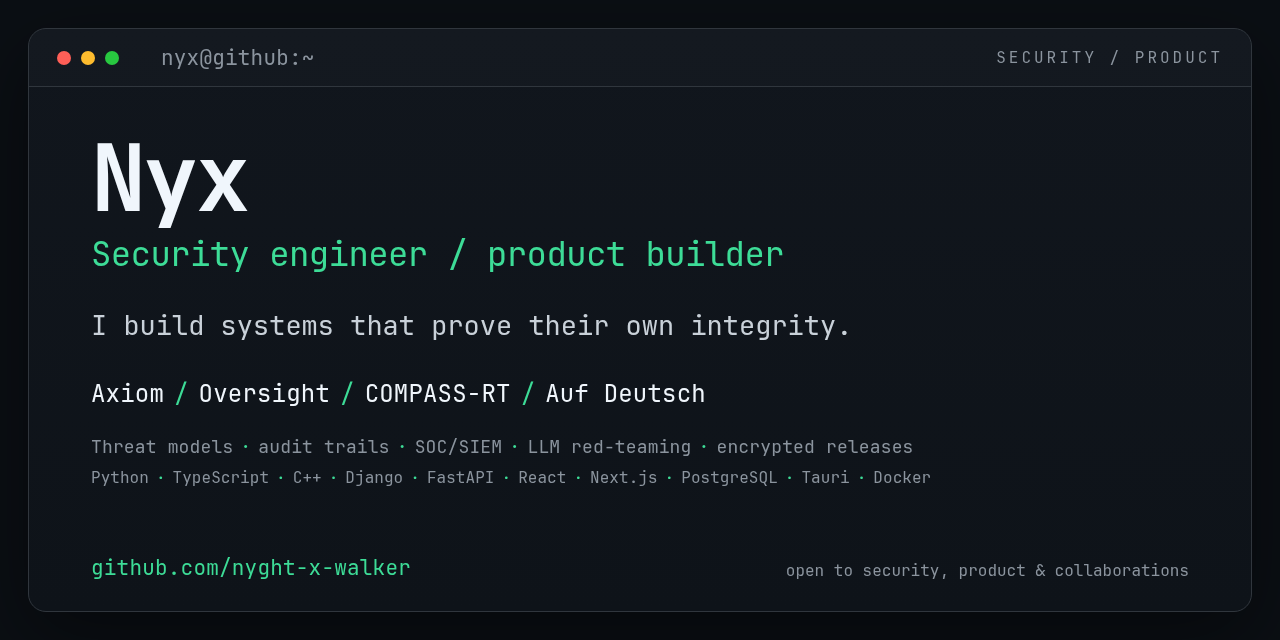
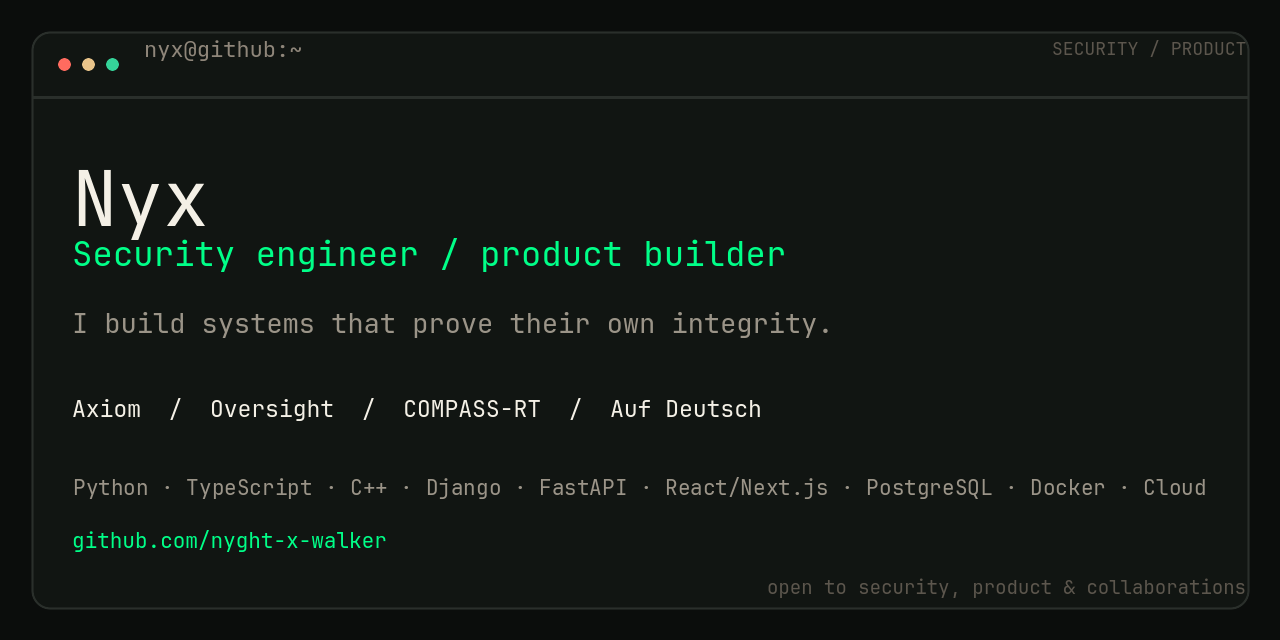
Restore social preview style and broaden stack line

diff --git a/README.md b/README.md
@@ -70,7 +70,7 @@ Threat modeling · detection engineering · AI red-teaming · AppSec · identity
 Python · TypeScript · React 19 · Next.js · Django · FastAPI · PostgreSQL · Prisma / SQLAlchemy
 
 ### Systems & delivery
-Linux · Docker · CI gates · observability · backups · restore drills · release engineering · developer tooling · technical writing
+Linux · Docker · cloud deployment · CI gates · observability · backups · restore drills · release engineering · developer tooling · technical writing
 
 ---
 
